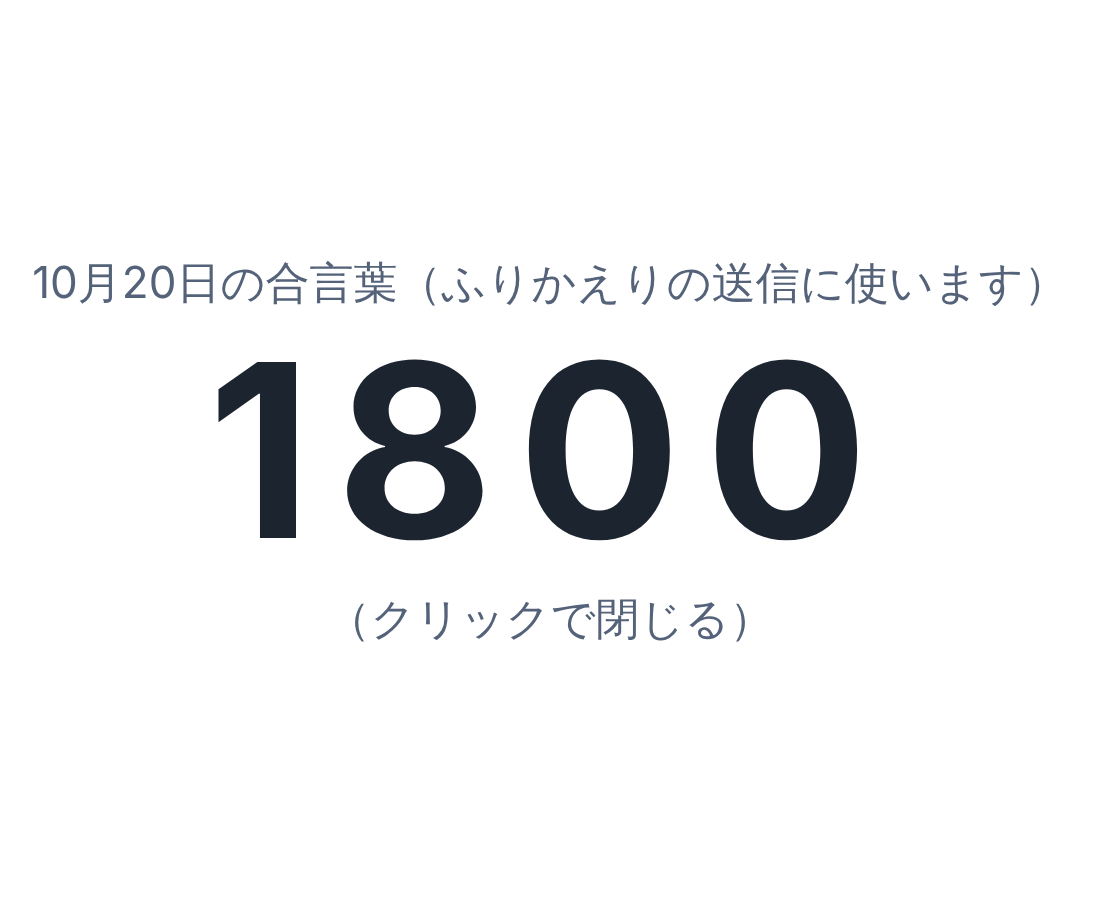
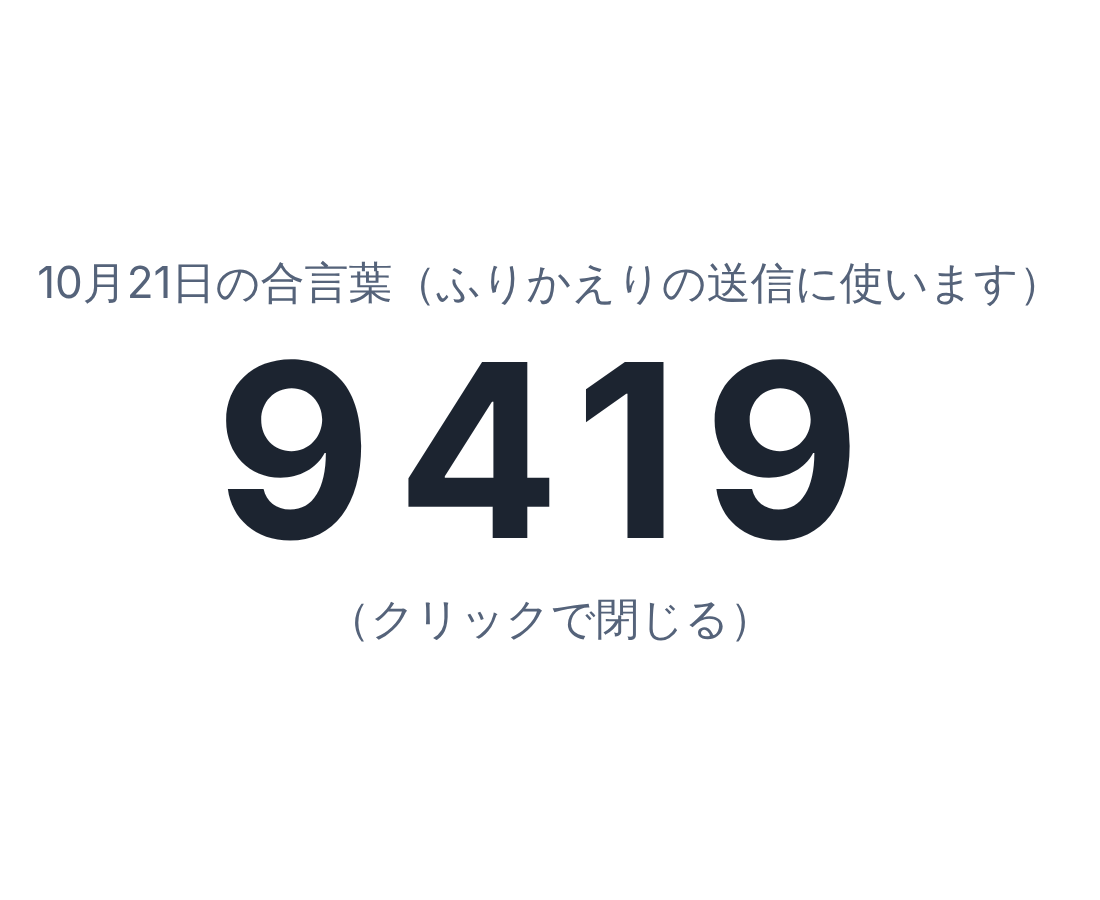
タマゴは選んだ次の1回の提出で孵化するように変更
孵化までの回数を CONFIG.HATCH_AFTER（1回）で設定できるようにし、
孵化後はこれまでどおり3回ごとに進化する（14回で究極体）。

Claude-Session: https://claude.ai/code/session_01Ndvtn3TrVQ1RMinoZuxXTB

Changed region(s): [[0.1855, 0.3733, 0.6182, 0.6222], [0.0309, 0.28, 0.9582, 0.3422], [0.6491, 0.4044, 0.8036, 0.5911]]

diff --git a/furikaeri/src/Form.html b/furikaeri/src/Form.html
@@ -174,7 +174,7 @@ var SETTINGS = (function(){
     // Apps Script の外で開いたとき（体験モード）
     var w = null;
     try { w = JSON.parse(localStorage.getItem('furikaeri_demo_word') || 'null'); } catch(x) {}
-    return { classes:{1:6,2:6,3:7}, maxNumber:35, maxPeriod:6, subject:'技術', needWord: !w || w.mode !== 'off', pets:true, growPerStage:3 };
+    return { classes:{1:6,2:6,3:7}, maxNumber:35, maxPeriod:6, subject:'技術', needWord: !w || w.mode !== 'off', pets:true, growPerStage:3, hatchAfter:1 };
   }
 })();
 var DEMO = typeof google === 'undefined' || !google.script;
@@ -377,10 +377,20 @@ function esc(s){
   });
 }
 
+// 育成ポイント → 段階（Apps Script 側の petStage_ と同じ計算）
+function hatchAfter(){ return SETTINGS.hatchAfter == null ? SETTINGS.growPerStage - 1 : SETTINGS.hatchAfter; }
+function petStage(points){
+  var h = 1 + hatchAfter();
+  return points < h ? 0 : Math.min(5, 1 + Math.floor((points - h) / SETTINGS.growPerStage));
+}
+
 // 進化までの ●●○
 function progressHtml(v){
   if (v.stage >= 5) return '<div class="dots">🎉 究極体まで育て上げた！</div>';
-  var n = SETTINGS.growPerStage, have = v.points % n, dots = '';
+  var h = 1 + hatchAfter(), n, have;
+  if (v.stage === 0) { n = hatchAfter(); have = v.points - 1; }
+  else { n = SETTINGS.growPerStage; have = v.points - (h + (v.stage - 1) * n); }
+  var dots = '';
   for (var i = 0; i < n; i++) dots += '<i class="' + (i < have ? 'on' : '') + '"></i>';
   return '<div class="dots">' + dots + '<span>あと<b>' + (n - have) + '回</b>で' + (v.stage === 0 ? 'うまれる！' : '進化！') + '</span></div>';
 }
@@ -403,7 +413,7 @@ function loadTopPet(){
     box.classList.remove('hidden');
     if (!v || !v.current) {
       box.innerHTML = '<div class="pic" style="filter:grayscale(1);opacity:.35">' + PETS.svg('inu', 0, 80) + '</div>' +
-        '<div class="info"><p class="petname">キャラを育てよう！</p><div class="muted">ふりかえりを送信すると、タマゴを1つ選べます。' + SETTINGS.growPerStage + '回送信するごとに進化します。</div>' + (v ? zukanHtml(v) : '') + '</div>';
+        '<div class="info"><p class="petname">キャラを育てよう！</p><div class="muted">ふりかえりを送信すると、タマゴを1つ選べます。次の' + hatchAfter() + '回の送信で孵化し、その後は' + SETTINGS.growPerStage + '回送信するごとに進化します。</div>' + (v ? zukanHtml(v) : '') + '</div>';
       return;
     }
     box.innerHTML = '<div class="pic">' + PETS.svg(v.current, v.stage, 120) + '</div><div class="info">' +
@@ -515,7 +525,7 @@ var demoPet = (function(){
   var KEY = 'furikaeri_demo_pets';
   function all(){ return store(KEY) || {}; }
   function view(p){
-    var st = p.current ? Math.min(5, Math.floor(p.points / SETTINGS.growPerStage)) : 0;
+    var st = p.current ? petStage(p.points) : 0;
     return { current:p.current, points:p.points, stage:st, done:p.done.slice(), needEgg: !p.current || st === 5 };
   }
   function count(p, lesson){
@@ -529,7 +539,7 @@ var demoPet = (function(){
     grow: function(r, lesson){
       var db = all(), key = r.grade + '-' + r.cls + '-' + r.num;
       var p = db[key] || { current:'', points:0, day:'', lessons:[], done:[] };
-      var before = p.current ? Math.min(5, Math.floor(p.points / SETTINGS.growPerStage)) : -1, counted = 'none';
+      var before = p.current ? petStage(p.points) : -1, counted = 'none';
       if (p.current && before < 5) { counted = count(p, lesson); if (counted === 'ok') p.points++; }
       db[key] = p; store(KEY, db);
       var v = view(p);

diff --git a/furikaeri/README.md b/furikaeri/README.md
@@ -68,8 +68,8 @@
    - ピンク・青なのはタマゴのときだけで、生まれた後はキャラごとに色も形もまったく違います
    - 段階が進むと衣装や武器が増えます（例：侍は 木刀 → はちまき → 刀 → 鎧 → 金の兜の将軍、黒ねこは 鈴 → 魔法のつえ → 魔女の帽子 → 星の大魔女）
    - だれでもどちらからでも選べます
-2. **3回送信するごとに1段階進化**します（進化の瞬間は、ぶるぶる→ピカッと光る演出つき）
-   **タマゴ → 幼年期 → 成長期 → 成熟期 → 完全体 → 究極体**（タマゴを選んだ回を含めて15回で究極体）
+2. タマゴを選んだ後、**次の1回の送信で孵化**し、その後は**3回送信するごとに1段階進化**します（ぶるぶる→ピカッと光る演出つき）
+   **タマゴ → 幼年期 → 成長期 → 成熟期 → 完全体 → 究極体**（タマゴを選んだ回を含めて14回で究極体）
 3. **究極体まで育て上げると、ほかのタマゴを選べます**。育て上げたキャラは「図鑑」に並びます
    （すぐに選ばなくても、次に送信したときに選べます。10種類すべて育て上げたら、また好きなものを選べます）
 4. フォームを開くと、いちばん上に**今育てているキャラ**と「あと何回で進化するか」が表示されます
@@ -222,6 +222,7 @@
 |---|---|
 | クラス数・出席番号の上限 | 上のほうの `CONFIG` の `CLASSES` / `MAX_NUMBER` |
 | キャラ育成をやめる | `CONFIG` の `PETS: true` を `false` に |
+| タマゴを選んでから何回で孵化するか | `CONFIG` の `HATCH_AFTER: 1` |
 | 何回の送信で進化するか | `CONFIG` の `GROW_PER_STAGE: 3` |
 | 1日に育成ポイントがもらえる回数 | `CONFIG` の `GROW_MAX_PER_DAY: 2` |
 | 時限の欄をなくす | `CONFIG` の `MAX_PERIOD: 6` を `0` に |
